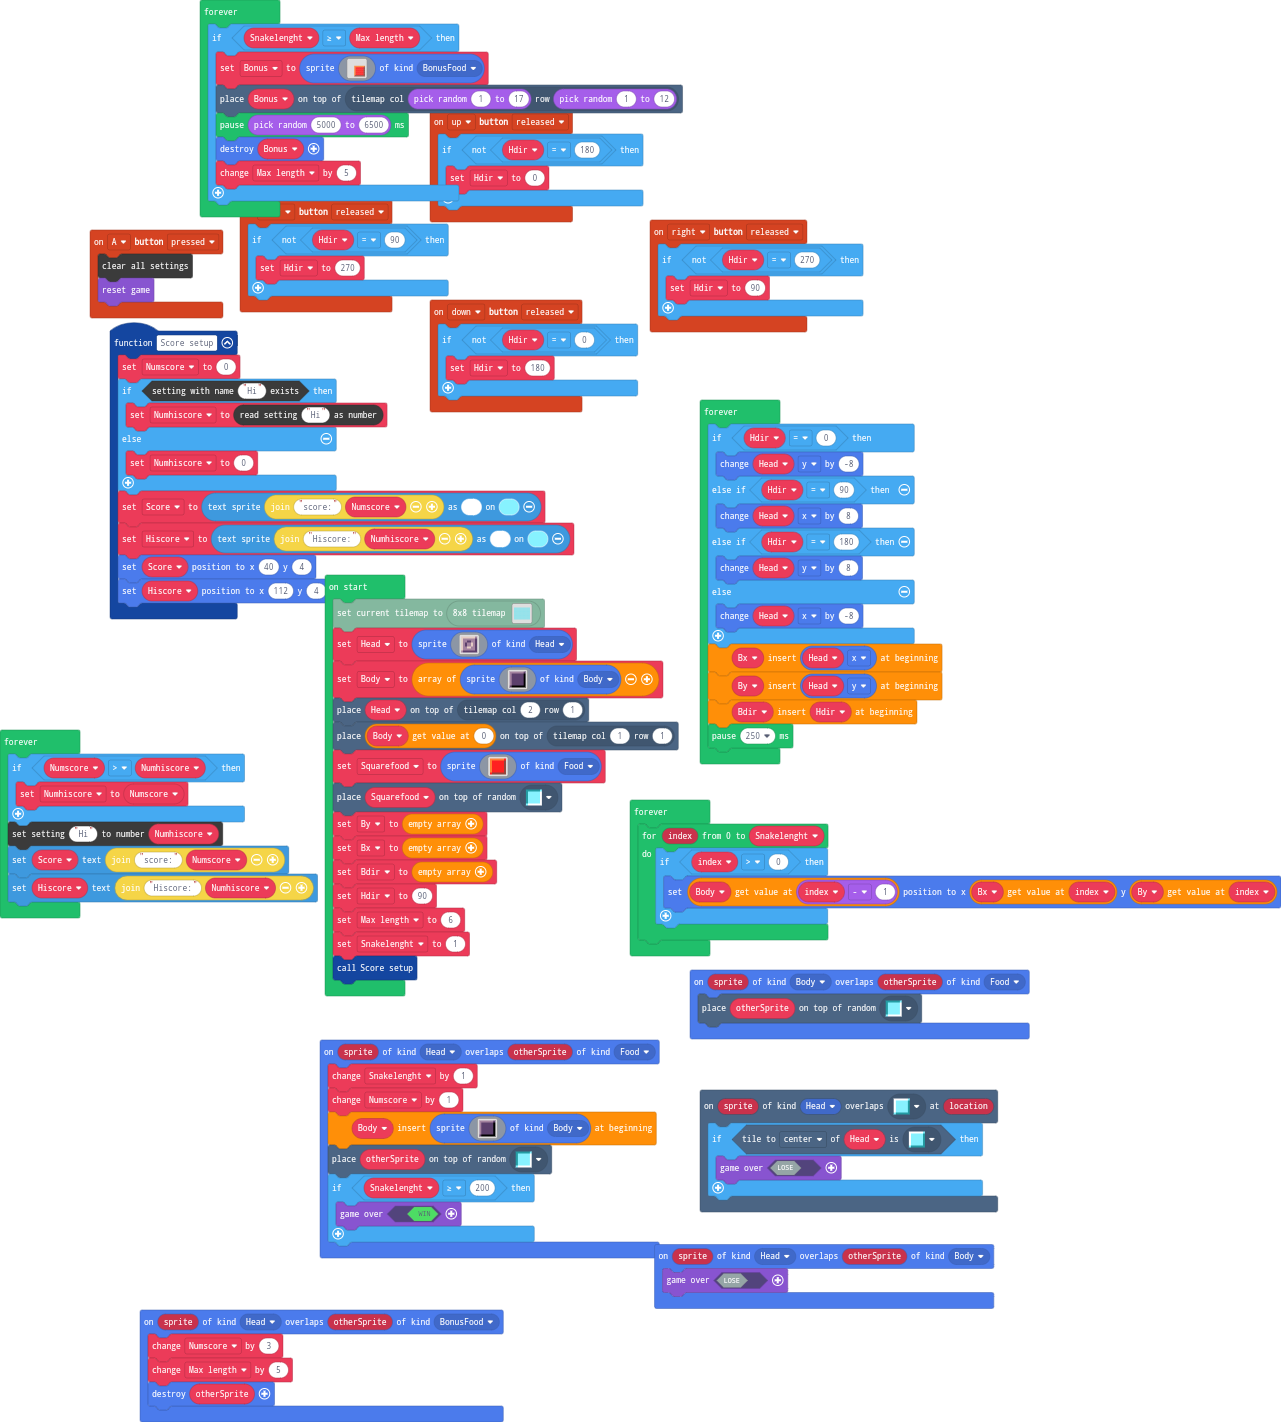
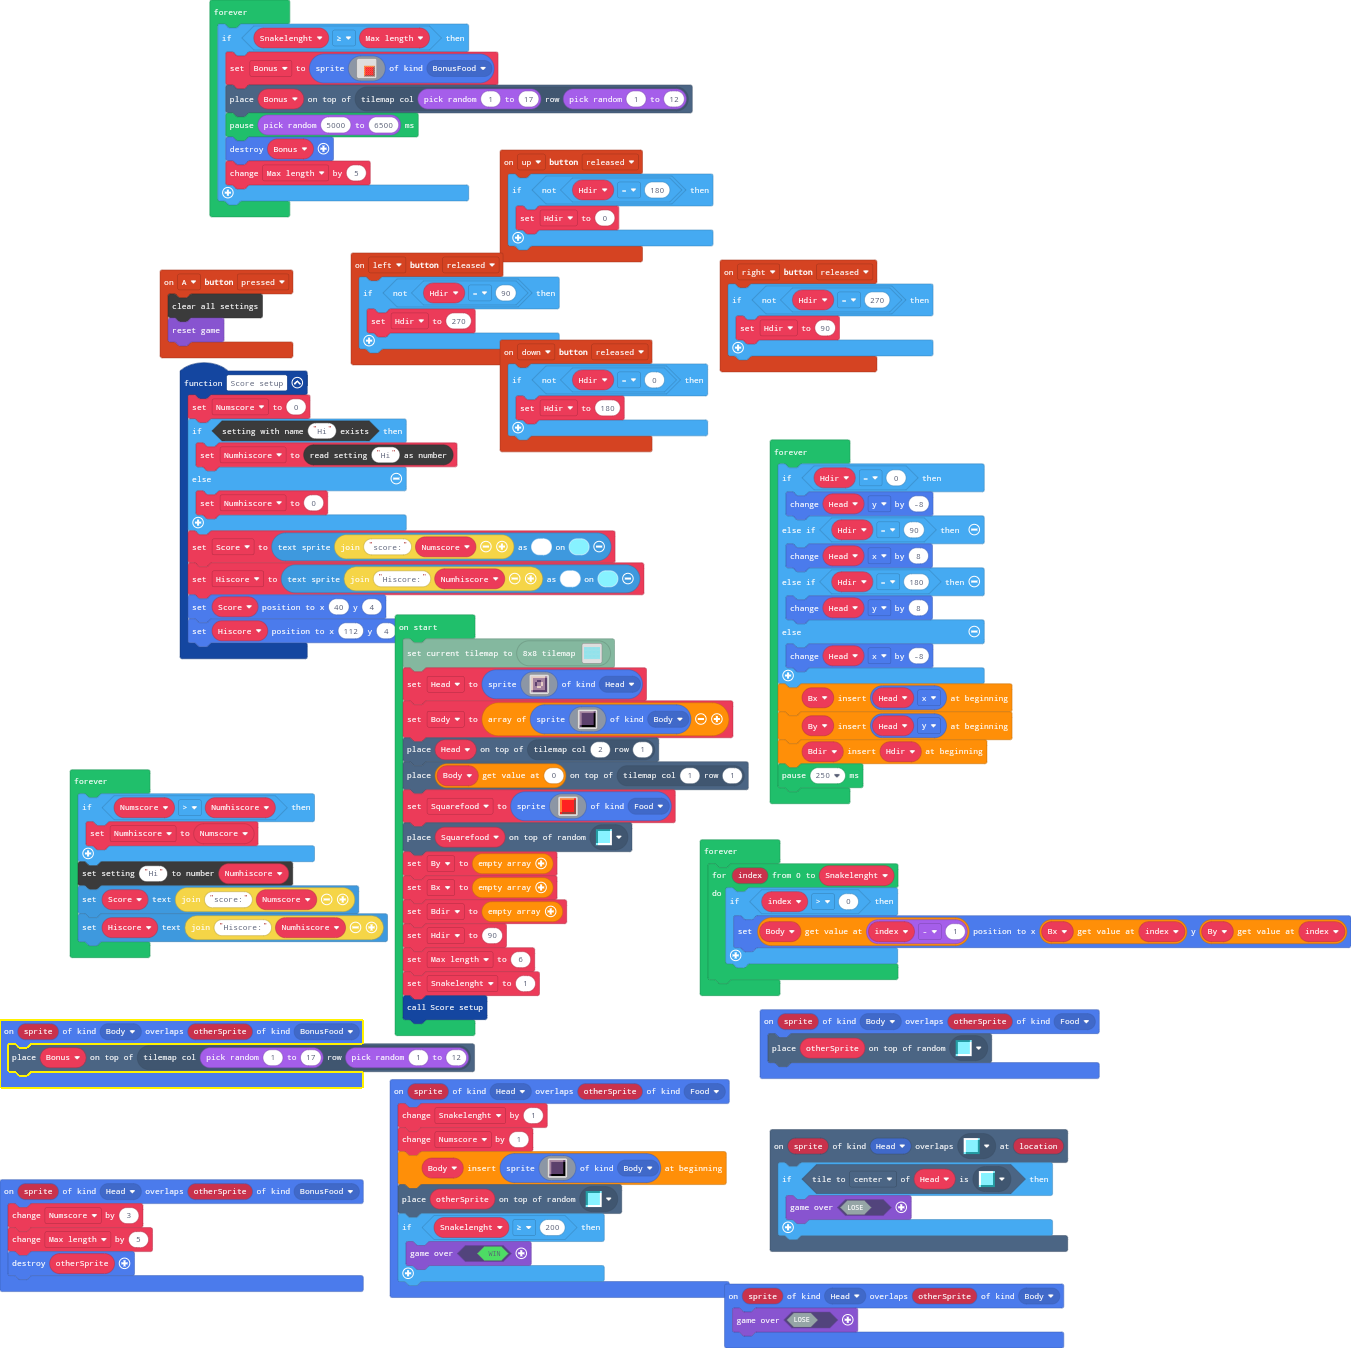
Update main.blocks, main.ts, tilemap.g.jres, tilemap.g.ts

diff --git a/tilemap.g.ts b/tilemap.g.ts
@@ -68,6 +68,24 @@ namespace myTiles {
 . . . . . . . . . . . . . . . . . . . . 
 . . . . . . . . . . . . . . . . . . . . 
 `, [myTiles.transparency8], TileScale.Eight);
+            case "level4":
[1 lines of base64/hex data omitted]
+. . . . . . . . . . . . . . . . . . . . 
+. . . . . . . . . . . . . . . . . . . . 
+. . . . . . . . . . . . . . . . . . . . 
+. . . . . . . . . . . . . . . . . . . . 
+. . . . . . . . . . . . . . . . . . . . 
+. . . . . . . . . . . . . . . . . . . . 
+. . . . . . . . . . . . . . . . . . . . 
+. . . . . . . . . . . . . . . . . . . . 
+. . . . . . . . . . . . . . . . . . . . 
+. . . . . . . . . . . . . . . . . . . . 
+. . . . . . . . . . . . . . . . . . . . 
+. . . . . . . . . . . . . . . . . . . . 
+. . . . . . . . . . . . . . . . . . . . 
+. . . . . . . . . . . . . . . . . . . . 
+. . . . . . . . . . . . . . . . . . . . 
+`, [myTiles.transparency8], TileScale.Eight);
         }
         return null;
     })

diff --git a/main.ts b/main.ts
@@ -33,6 +33,9 @@ sprites.onOverlap(SpriteKind.Head, SpriteKind.Food, function (sprite, otherSprit
         game.over(true)
     }
 })
+sprites.onOverlap(SpriteKind.Body, SpriteKind.BonusFood, function (sprite, otherSprite) {
+    tiles.placeOnTile(Bonus, tiles.getTileLocation(randint(1, 17), randint(1, 12)))
+})
 controller.A.onEvent(ControllerButtonEvent.Pressed, function () {
     blockSettings.clear()
     game.reset()
